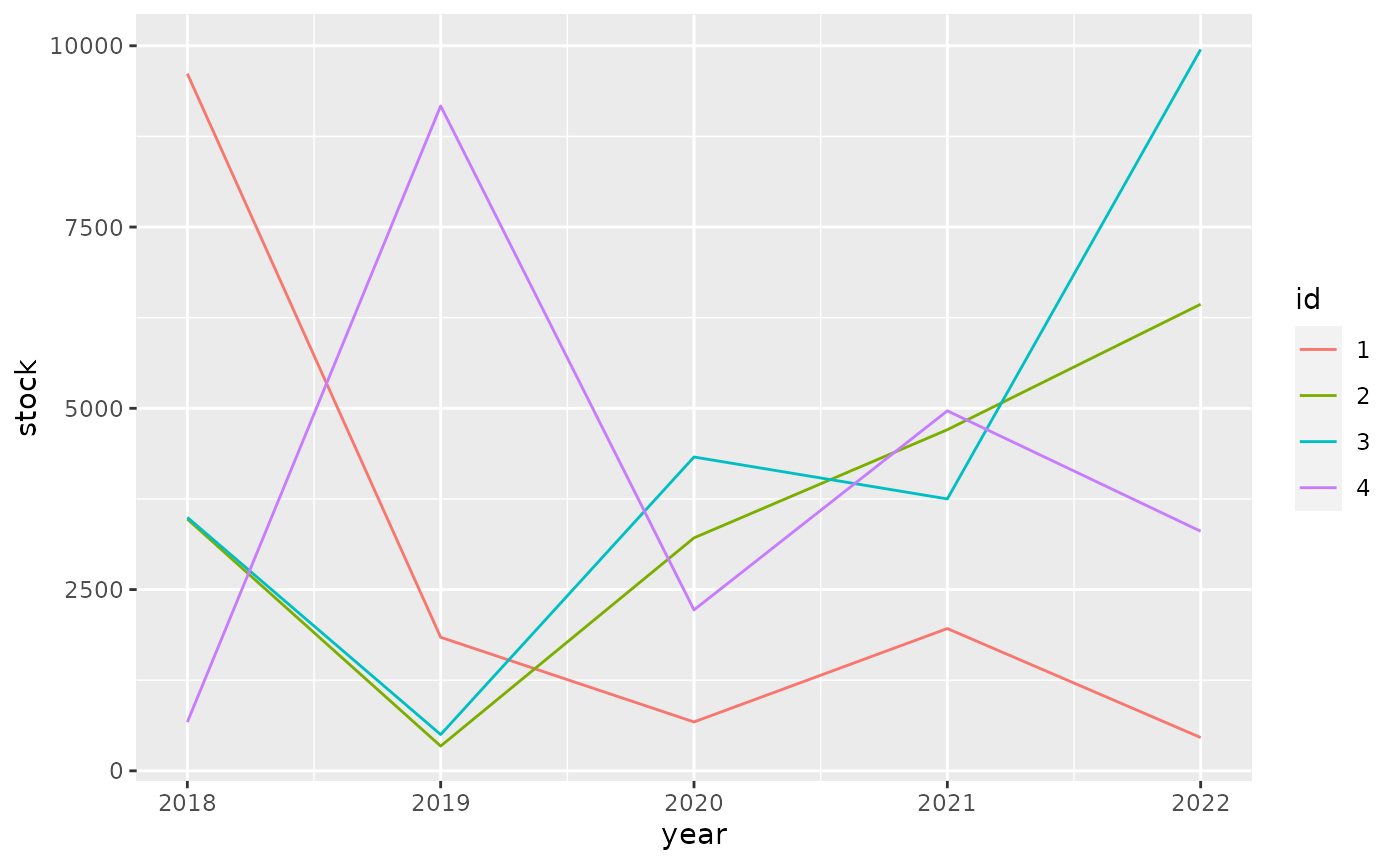
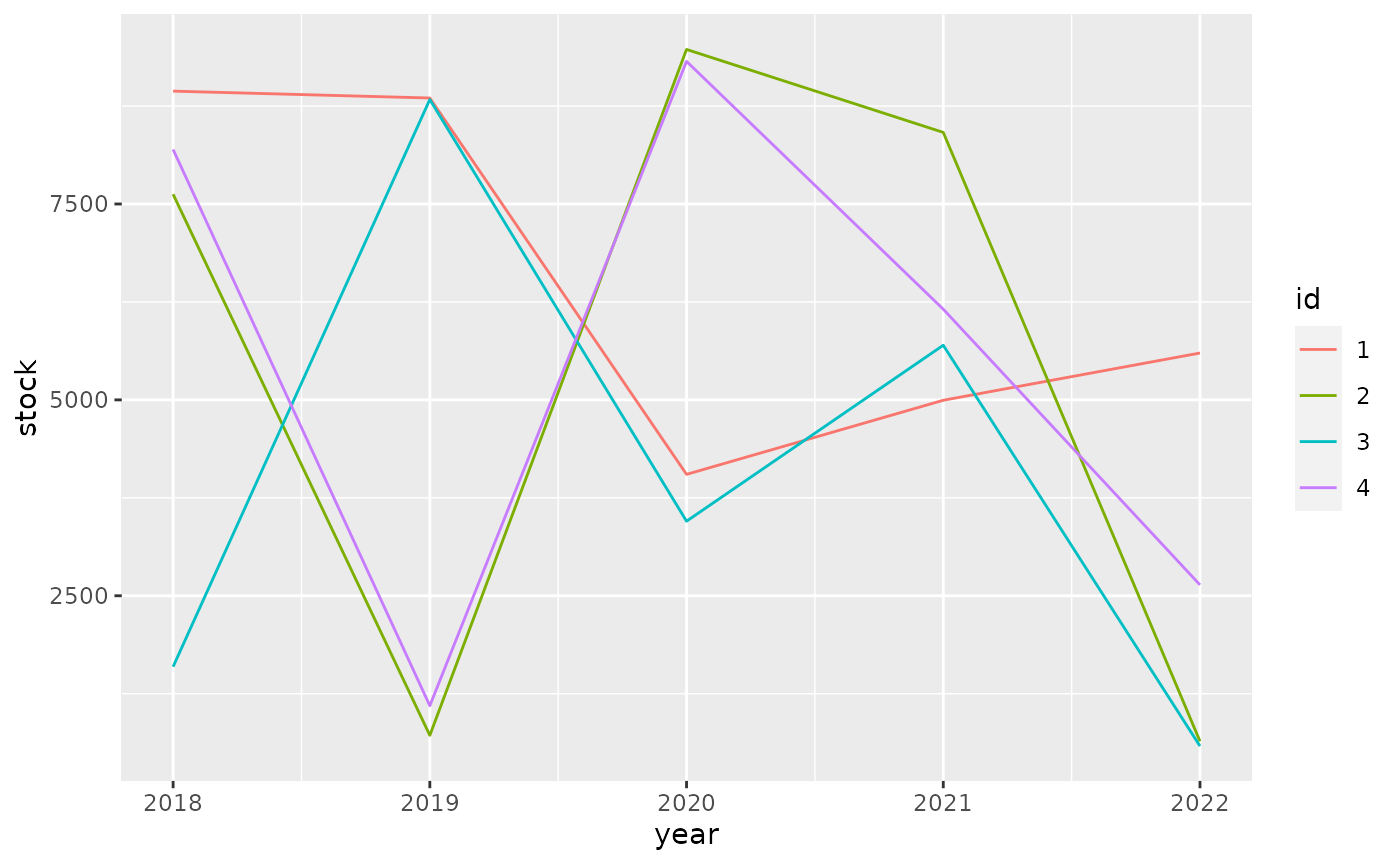
Built site for tibble: 3.1.3.9002@c732da8

diff --git a/dev/articles/formats.html b/dev/articles/formats.html
@@ -221,10 +221,10 @@
 <span class="co">#&gt; # A tibble: 4 × 6</span>
 <span class="co">#&gt;   id       `2018`    `2019`    `2020`    `2021`    `2022`</span>
 <span class="co">#&gt;   &lt;fct&gt; &lt;dbl:fmt&gt; &lt;dbl:fmt&gt; &lt;dbl:fmt&gt; &lt;dbl:fmt&gt; &lt;dbl:fmt&gt;</span>
-<span class="co">#&gt; 1 1     $9,615.45 $1,841.95   $674.32 $1,962.45   $459.40</span>
-<span class="co">#&gt; 2 2     $3,472.02   $341.48 $3,213.02 $4,704.74 $6,435.26</span>
-<span class="co">#&gt; 3 3     $3,495.93   $500.39 $4,328.38 $3,750.29 $9,949.46</span>
-<span class="co">#&gt; 4 4       $672.08 $9,170.39 $2,219.61 $4,965.29 $3,304.39</span></code></pre></div>
+<span class="co">#&gt; 1 1     $8,940.21 $8,852.49 $4,049.34 $4,995.02 $5,598.03</span>
+<span class="co">#&gt; 2 2     $7,624.44   $718.70 $9,472.30 $8,413.62   $643.08</span>
+<span class="co">#&gt; 3 3     $1,594.45 $8,833.25 $3,451.75 $5,697.09   $581.70</span>
+<span class="co">#&gt; 4 4     $8,195.54 $1,096.71 $9,320.17 $6,157.28 $2,639.14</span></code></pre></div>
 <p>For ggplot2 we need to do <a href="https://github.com/tidyverse/ggplot2/pull/4065" class="external-link">some work</a> to show apply the formatting to the scales.</p>
 <div class="sourceCode" id="cb6"><pre class="downlit sourceCode r">
 <code class="sourceCode R"><span class="kw"><a href="https://rdrr.io/r/base/library.html" class="external-link">library</a></span><span class="op">(</span><span class="va"><a href="https://ggplot2.tidyverse.org" class="external-link">ggplot2</a></span><span class="op">)</span>
@@ -235,10 +235,10 @@
   <span class="fu"><a href="https://ggplot2.tidyverse.org/reference/geom_path.html" class="external-link">geom_line</a></span><span class="op">(</span><span class="op">)</span></code></pre></div>
 <p><img src="formats_files/figure-html/unnamed-chunk-7-1.png" width="700"></p>
 <p>It pays off to specify formatting very early in the process. The diagram below shows the principal stages of data analysis and exploration from “R for data science”.</p>
-<div id="htmlwidget-d65de41aa6992863796c" style="width:700px;height:432.632880098888px;" class="DiagrammeR html-widget"></div>
-<script type="application/json" data-for="htmlwidget-d65de41aa6992863796c">{"x":{"diagram":"graph TD\n  Import --> Tidy\n  Tidy --> Transform\n  Transform --> Visualize\n  Visualize --> Communicate\n  Visualize --> Model\n  Model -.-> Transform"},"evals":[],"jsHooks":[]}</script><p>The subsequent diagram adds data formats, communication options, and explicit data formatting. The original r4ds transitions are highlighted in bold. There are two principal options where to apply formatting for results: right before communicating them, or right after importing.</p>
-<div id="htmlwidget-3fa5d43888bd66835ab1" style="width:700px;height:432.632880098888px;" class="DiagrammeR html-widget"></div>
-<script type="application/json" data-for="htmlwidget-3fa5d43888bd66835ab1">{"x":{"diagram":"graph TD\n  .csv --> Import\n  API --> Import\n  DBI --> Import\n  dbplyr --> Import\n  Import -.-> Format[Format for analysis]\n  Format -.-> Tidy\n\n  subgraph r4ds\n  Import ==> Tidy\n  Tidy ==> Transform\n  Transform ==> Visualize\n  Visualize ==> Model\n  Model -.-> Transform\n  Visualize ==> Communicate\n  end\n\n  Visualize -.-> FormatComm[Format for communication]\n  FormatComm -.-> Communicate\n\n  FormatComm -- Apply formatting early --> Format\n\n  dbplyr -.-> Tidy\n  dbplyr -.-> Transform\n  dbplyr -.-> Visualize\n\n  Communicate --> gt\n  Communicate --> ggplot2\n  Communicate --> DT\n  Communicate --> plotly"},"evals":[],"jsHooks":[]}</script><p>Applying formatting early in the process gives the added benefit of showing the data in a useful format during the “Tidy”, “Transform”, and “Visualize” stages. For this to be useful, we need to ensure that the formatting options applied early:</p>
+<div id="htmlwidget-3a6e7fc5cc7d51e266b5" style="width:700px;height:432.632880098888px;" class="DiagrammeR html-widget"></div>
+<script type="application/json" data-for="htmlwidget-3a6e7fc5cc7d51e266b5">{"x":{"diagram":"graph TD\n  Import --> Tidy\n  Tidy --> Transform\n  Transform --> Visualize\n  Visualize --> Communicate\n  Visualize --> Model\n  Model -.-> Transform"},"evals":[],"jsHooks":[]}</script><p>The subsequent diagram adds data formats, communication options, and explicit data formatting. The original r4ds transitions are highlighted in bold. There are two principal options where to apply formatting for results: right before communicating them, or right after importing.</p>
+<div id="htmlwidget-d3333fe73f06ce18164a" style="width:700px;height:432.632880098888px;" class="DiagrammeR html-widget"></div>
+<script type="application/json" data-for="htmlwidget-d3333fe73f06ce18164a">{"x":{"diagram":"graph TD\n  .csv --> Import\n  API --> Import\n  DBI --> Import\n  dbplyr --> Import\n  Import -.-> Format[Format for analysis]\n  Format -.-> Tidy\n\n  subgraph r4ds\n  Import ==> Tidy\n  Tidy ==> Transform\n  Transform ==> Visualize\n  Visualize ==> Model\n  Model -.-> Transform\n  Visualize ==> Communicate\n  end\n\n  Visualize -.-> FormatComm[Format for communication]\n  FormatComm -.-> Communicate\n\n  FormatComm -- Apply formatting early --> Format\n\n  dbplyr -.-> Tidy\n  dbplyr -.-> Transform\n  dbplyr -.-> Visualize\n\n  Communicate --> gt\n  Communicate --> ggplot2\n  Communicate --> DT\n  Communicate --> plotly"},"evals":[],"jsHooks":[]}</script><p>Applying formatting early in the process gives the added benefit of showing the data in a useful format during the “Tidy”, “Transform”, and “Visualize” stages. For this to be useful, we need to ensure that the formatting options applied early:</p>
 <ul>
 <li>give a good user experience for analysis
 <ul>

diff --git a/dev/articles/types.html b/dev/articles/types.html
@@ -352,7 +352,7 @@
 #&gt; $ factor        &lt;fct&gt; A
 #&gt; $ ordered       &lt;ord&gt; a
 #&gt; $ Date          &lt;date&gt; 2021-07-31
-#&gt; $ POSIXt        &lt;dttm&gt; 2021-07-31 09:44:55
+#&gt; $ POSIXt        &lt;dttm&gt; 2021-07-31 15:38:56
 #&gt; $ difftime      &lt;drtn&gt; 1 secs
 #&gt; $ hms           &lt;time&gt; 00:00:01
 #&gt; $ integer64     &lt;int64&gt; 10000000000
@@ -388,7 +388,7 @@
 <span class="co">#&gt;             "sym"</span>
 <span class="co">#&gt;         }, typeof(x))</span>
 <span class="co">#&gt; }</span>
-<span class="co">#&gt; &lt;bytecode: 0x55e233cf0560&gt;</span>
+<span class="co">#&gt; &lt;bytecode: 0x564edbac4670&gt;</span>
 <span class="co">#&gt; &lt;environment: namespace:pillar&gt;</span></code></pre></div>
 </div>
   </div>
